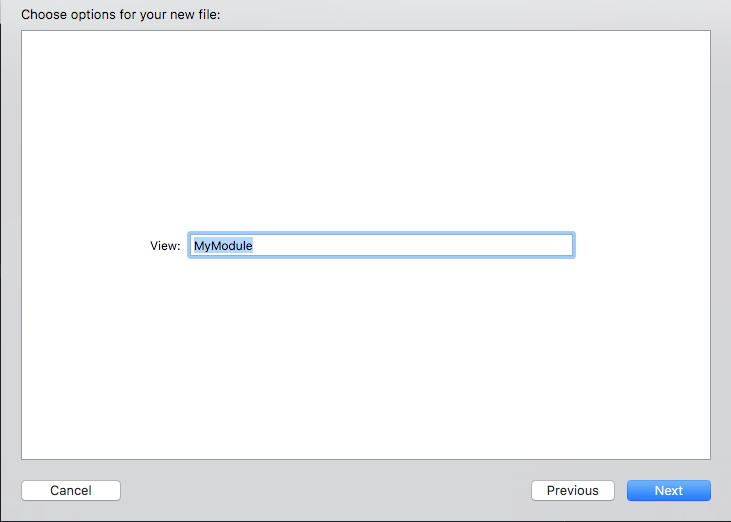
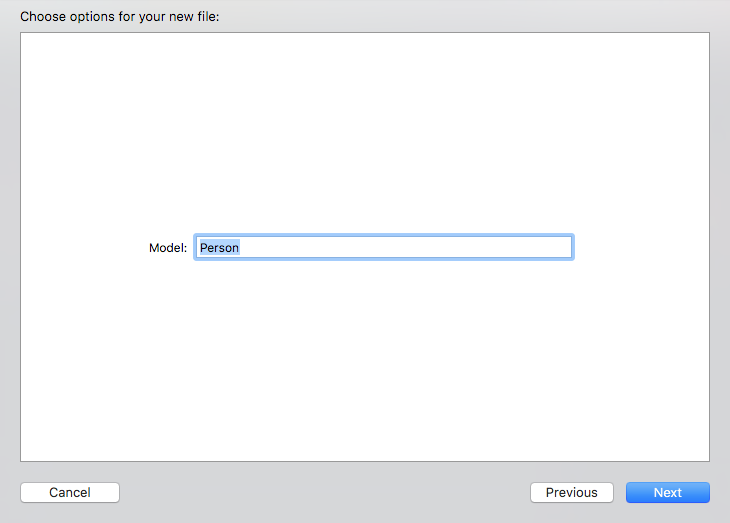
Updating article

diff --git a/_posts/2017-09-10-advanced-xcode-template.md b/_posts/2017-09-10-advanced-xcode-template.md
@@ -94,13 +94,13 @@ Let's add a name for the View/ViewModel. To do so we need to add the following o
     <key>Required</key>
     <true/>
     <key>Name</key>
-    <string>View:</string>
+    <string>Model:</string>
     <key>Description</key>
-    <string>The name of the View and ViewModel to create</string>
+    <string>The name of the Model, View and ViewModel to create</string>
     <key>Type</key>
     <string>text</string>
     <key>Default</key>
-    <string>MyView</string>
+    <string>MyModel</string>
   </dict>
 </array>
 {% endhighlight %}
@@ -127,13 +127,13 @@ The full PList may look like this now:
       <key>Required</key>
       <true/>
       <key>Name</key>
-      <string>View:</string>
+      <string>Model:</string>
       <key>Description</key>
-      <string>The name of the View and ViewModel to create</string>
+      <string>The name of the Model, View and ViewModel to create</string>
       <key>Type</key>
       <string>text</string>
       <key>Default</key>
-      <string>MyView</string>
+      <string>MyModel</string>
     </dict>
   </array>
 </dict>
@@ -264,13 +264,13 @@ So now your PList should look like this:
       <key>Required</key>
       <true/>
       <key>Name</key>
-      <string>View:</string>
+      <string>Model:</string>
       <key>Description</key>
-      <string>The name of the View and ViewModel to create</string>
+      <string>The name of the Model, View and ViewModel to create</string>
       <key>Type</key>
       <string>text</string>
       <key>Default</key>
-      <string>MyView</string>
+      <string>MyModel</string>
     </dict>
     <dict>
       <key>Identifier</key>
